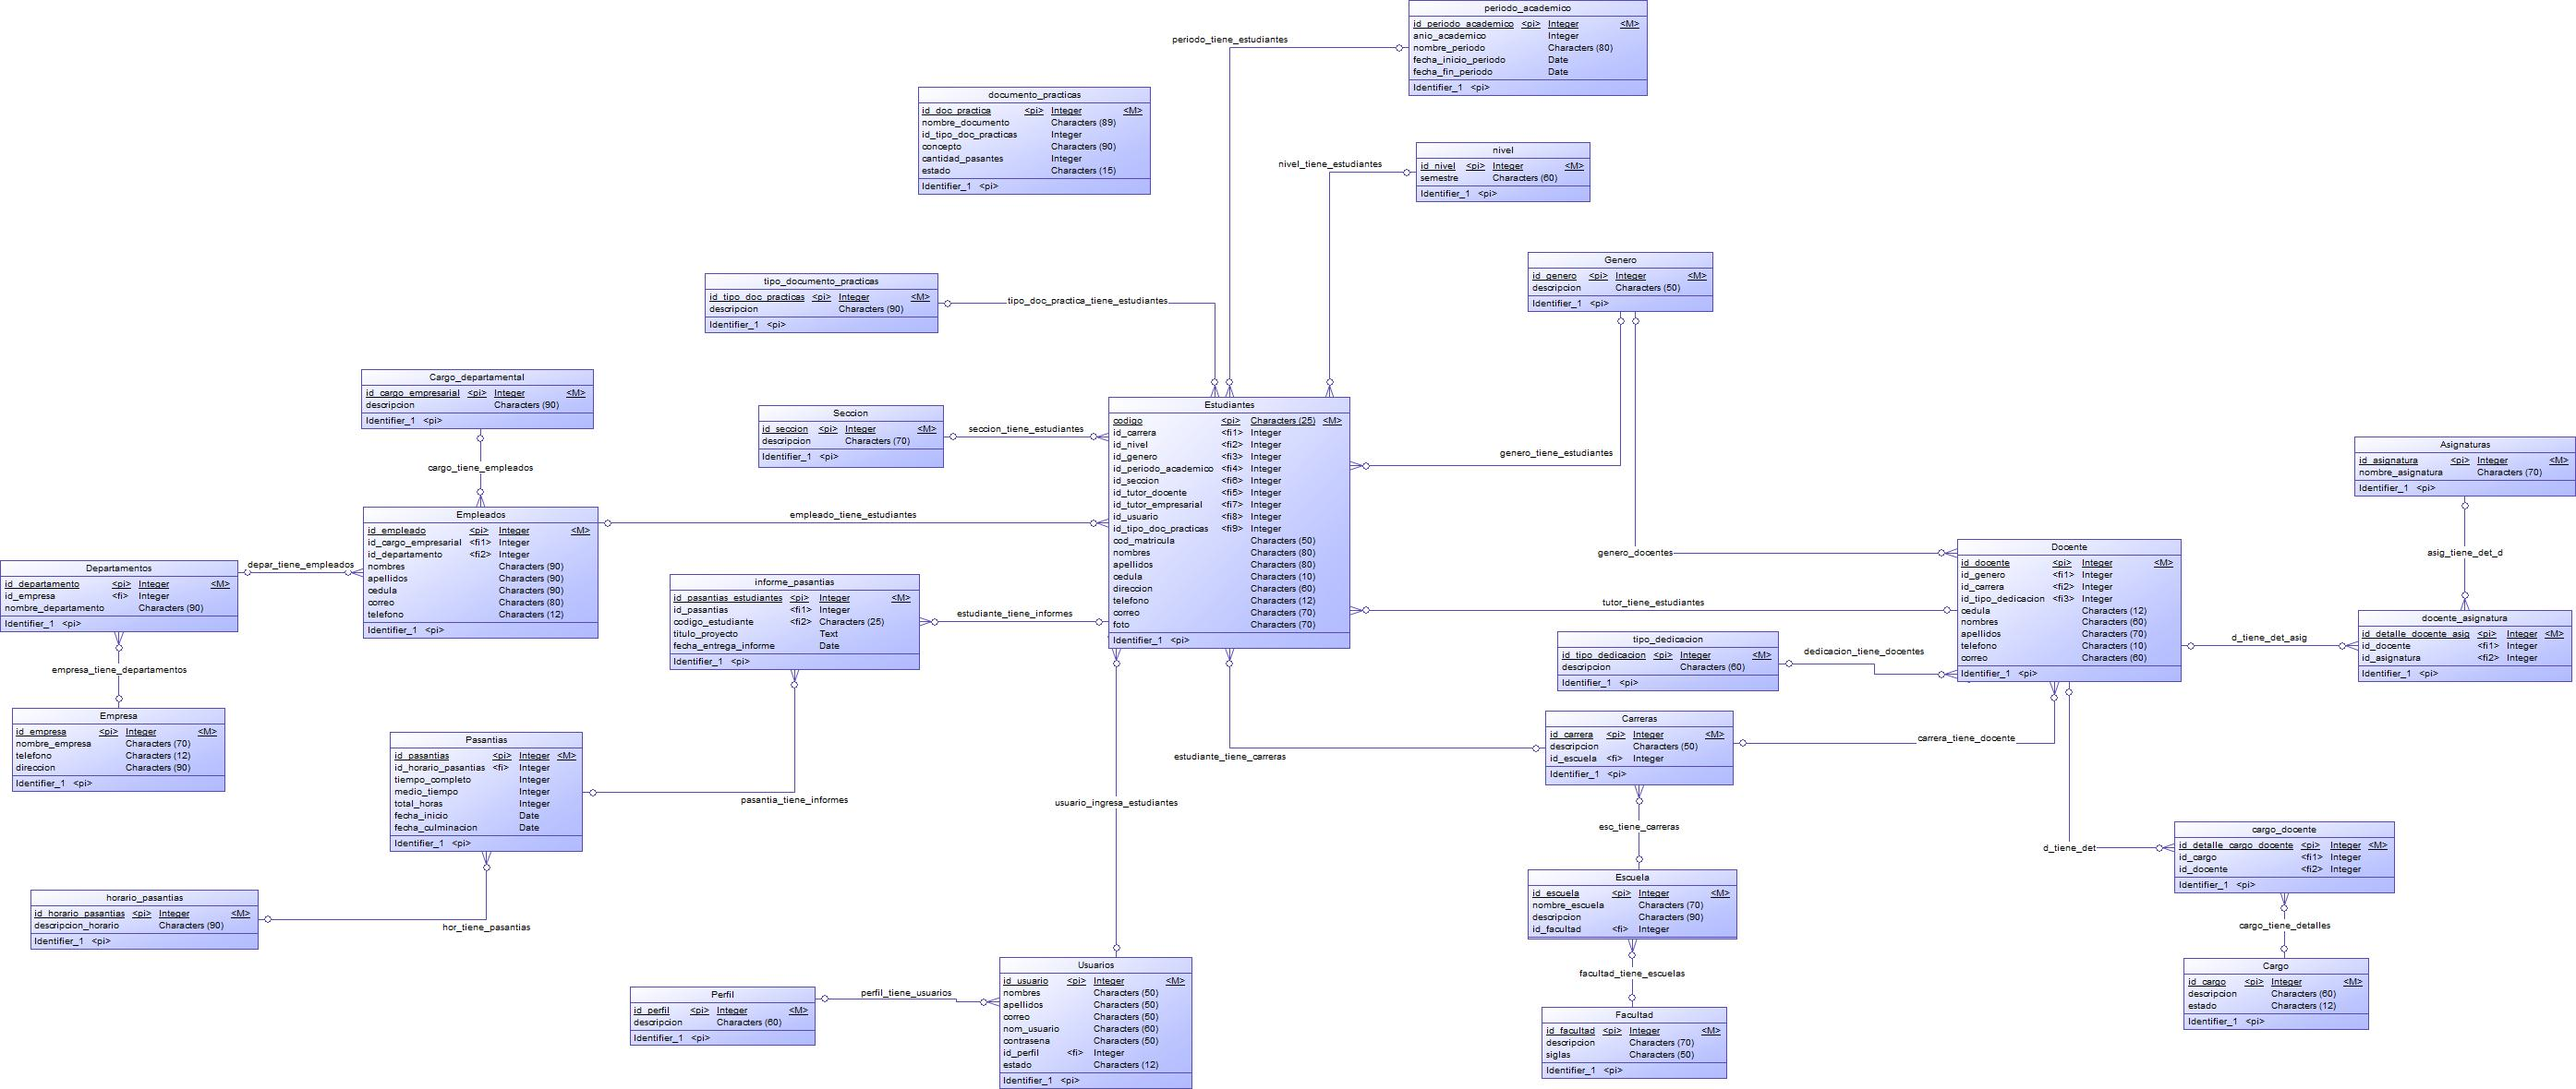
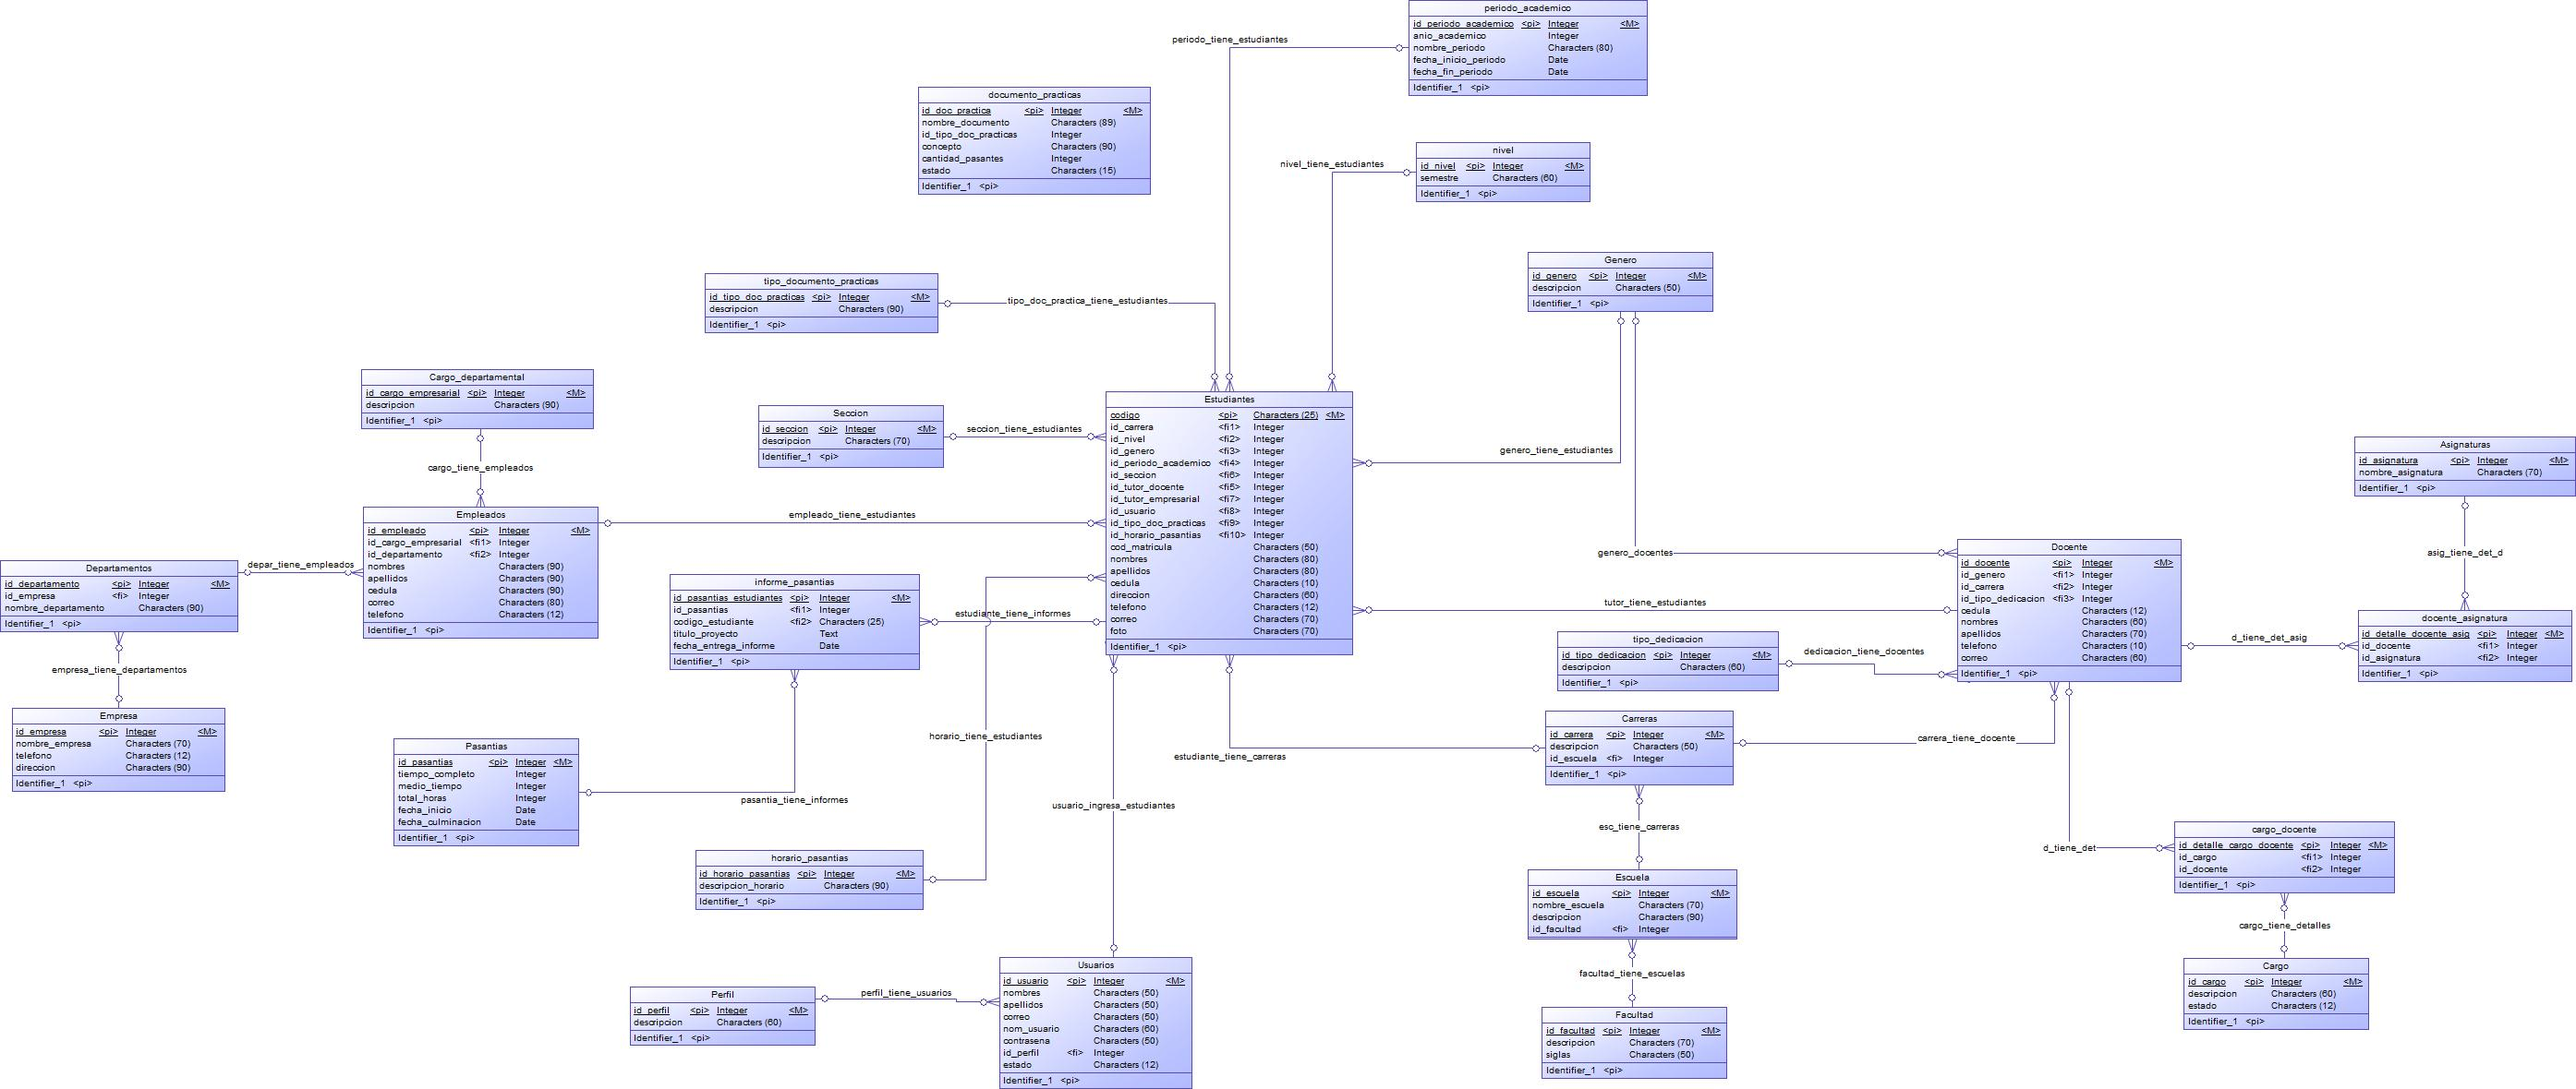
Agrege modelos Nivel, periodo academico, Seccion, y correcciones al modelo entidad relación en los horarios de pasantias

diff --git a/SysVinculacion/src/com/vinculacion/app/views/LoginView.java b/SysVinculacion/src/com/vinculacion/app/views/LoginView.java
@@ -33,6 +33,8 @@ public class LoginView extends javax.swing.JFrame {
         txtContrasena = new javax.swing.JPasswordField();
         jButton1 = new javax.swing.JButton();
         jButton2 = new javax.swing.JButton();
+        comboPerfil = new javax.swing.JComboBox<>();
+        jLabel3 = new javax.swing.JLabel();
 
         setDefaultCloseOperation(javax.swing.WindowConstants.EXIT_ON_CLOSE);
 
@@ -44,6 +46,8 @@ public class LoginView extends javax.swing.JFrame {
 
         jButton2.setText("Cancelar");
 
+        jLabel3.setText("Perfil:");
+
         javax.swing.GroupLayout layout = new javax.swing.GroupLayout(getContentPane());
         getContentPane().setLayout(layout);
         layout.setHorizontalGroup(
@@ -52,17 +56,19 @@ public class LoginView extends javax.swing.JFrame {
                 .addGap(25, 25, 25)
                 .addGroup(layout.createParallelGroup(javax.swing.GroupLayout.Alignment.LEADING, false)
                     .addGroup(layout.createSequentialGroup()
-                        .addGroup(layout.createParallelGroup(javax.swing.GroupLayout.Alignment.TRAILING)
-                            .addComponent(jLabel2)
-                            .addComponent(jLabel1))
-                        .addGap(59, 59, 59)
-                        .addGroup(layout.createParallelGroup(javax.swing.GroupLayout.Alignment.LEADING, false)
-                            .addComponent(txtUsuario)
-                            .addComponent(txtContrasena, javax.swing.GroupLayout.DEFAULT_SIZE, 157, Short.MAX_VALUE)))
-                    .addGroup(layout.createSequentialGroup()
                         .addComponent(jButton1, javax.swing.GroupLayout.PREFERRED_SIZE, 135, javax.swing.GroupLayout.PREFERRED_SIZE)
                         .addPreferredGap(javax.swing.LayoutStyle.ComponentPlacement.UNRELATED)
-                        .addComponent(jButton2, javax.swing.GroupLayout.DEFAULT_SIZE, 131, Short.MAX_VALUE)))
+                        .addComponent(jButton2, javax.swing.GroupLayout.DEFAULT_SIZE, 131, Short.MAX_VALUE))
+                    .addGroup(layout.createSequentialGroup()
+                        .addGroup(layout.createParallelGroup(javax.swing.GroupLayout.Alignment.TRAILING)
+                            .addComponent(jLabel2)
+                            .addComponent(jLabel1)
+                            .addComponent(jLabel3))
+                        .addGap(59, 59, 59)
+                        .addGroup(layout.createParallelGroup(javax.swing.GroupLayout.Alignment.LEADING, false)
+                            .addComponent(comboPerfil, 0, javax.swing.GroupLayout.DEFAULT_SIZE, Short.MAX_VALUE)
+                            .addComponent(txtUsuario)
+                            .addComponent(txtContrasena, javax.swing.GroupLayout.DEFAULT_SIZE, 157, Short.MAX_VALUE))))
                 .addContainerGap(35, Short.MAX_VALUE))
         );
         layout.setVerticalGroup(
@@ -76,11 +82,15 @@ public class LoginView extends javax.swing.JFrame {
                 .addGroup(layout.createParallelGroup(javax.swing.GroupLayout.Alignment.BASELINE)
                     .addComponent(jLabel2)
                     .addComponent(txtContrasena, javax.swing.GroupLayout.PREFERRED_SIZE, javax.swing.GroupLayout.DEFAULT_SIZE, javax.swing.GroupLayout.PREFERRED_SIZE))
-                .addGap(35, 35, 35)
+                .addPreferredGap(javax.swing.LayoutStyle.ComponentPlacement.UNRELATED)
                 .addGroup(layout.createParallelGroup(javax.swing.GroupLayout.Alignment.BASELINE)
-                    .addComponent(jButton1)
-                    .addComponent(jButton2))
-                .addContainerGap(31, Short.MAX_VALUE))
+                    .addComponent(comboPerfil, javax.swing.GroupLayout.PREFERRED_SIZE, javax.swing.GroupLayout.DEFAULT_SIZE, javax.swing.GroupLayout.PREFERRED_SIZE)
+                    .addComponent(jLabel3))
+                .addGap(18, 18, 18)
+                .addGroup(layout.createParallelGroup(javax.swing.GroupLayout.Alignment.LEADING)
+                    .addComponent(jButton1, javax.swing.GroupLayout.DEFAULT_SIZE, 32, Short.MAX_VALUE)
+                    .addComponent(jButton2, javax.swing.GroupLayout.DEFAULT_SIZE, javax.swing.GroupLayout.DEFAULT_SIZE, Short.MAX_VALUE))
+                .addGap(21, 21, 21))
         );
 
         pack();
@@ -122,10 +132,12 @@ public class LoginView extends javax.swing.JFrame {
     }
 
     // Variables declaration - do not modify//GEN-BEGIN:variables
+    public javax.swing.JComboBox<String> comboPerfil;
     public javax.swing.JButton jButton1;
     public javax.swing.JButton jButton2;
     private javax.swing.JLabel jLabel1;
     private javax.swing.JLabel jLabel2;
+    private javax.swing.JLabel jLabel3;
     public javax.swing.JPasswordField txtContrasena;
     public javax.swing.JTextField txtUsuario;
     // End of variables declaration//GEN-END:variables

diff --git a/SysVinculacion/src/com/vinculacion/app/model/PeriodoAcademico.java b/SysVinculacion/src/com/vinculacion/app/model/PeriodoAcademico.java
@@ -1,0 +1,84 @@
+package com.vinculacion.app.model;
+
+import java.io.Serializable;
+import java.util.Date;
+import javax.persistence.Column;
+import javax.persistence.Entity;
+import javax.persistence.GeneratedValue;
+import javax.persistence.GenerationType;
+import javax.persistence.Id;
+import javax.persistence.Table;
+
+@Entity
+@Table(name="PERIODO_ACADEMICO")
+public class PeriodoAcademico implements Serializable{
+    
+    @Id
+    @Column(name="ID_PERIODO_ACADEMICO")
+    @GeneratedValue(strategy=GenerationType.IDENTITY)
+    private int ID_PERIODO_ACADEMICO;
+    
+    @Column(name="ANIO_ACADEMICO")
+    private int ANIO_ACADEMICO;
+
+    @Column(name="NOMBRE_PERIODO")
+    private String NOMBRE_PERIODO;
+
+    @Column(name="FECHA_INICIO_PERIODO")
+    private Date FECHA_INICIO_PERIODO;
+
+    @Column(name="FECHA_FIN_PERIODO")
+    private Date FECHA_FIN_PERIODO;
+
+    public PeriodoAcademico() {
+    }
+
+    public PeriodoAcademico(int ID_PERIODO_ACADEMICO, int ANIO_ACADEMICO, String NOMBRE_PERIODO, Date FECHA_INICIO_PERIODO, Date FECHA_FIN_PERIODO) {
+        this.ID_PERIODO_ACADEMICO = ID_PERIODO_ACADEMICO;
+        this.ANIO_ACADEMICO = ANIO_ACADEMICO;
+        this.NOMBRE_PERIODO = NOMBRE_PERIODO;
+        this.FECHA_INICIO_PERIODO = FECHA_INICIO_PERIODO;
+        this.FECHA_FIN_PERIODO = FECHA_FIN_PERIODO;
+    }
+
+    public int getID_PERIODO_ACADEMICO() {
+        return ID_PERIODO_ACADEMICO;
+    }
+
+    public void setID_PERIODO_ACADEMICO(int ID_PERIODO_ACADEMICO) {
+        this.ID_PERIODO_ACADEMICO = ID_PERIODO_ACADEMICO;
+    }
+
+    public int getANIO_ACADEMICO() {
+        return ANIO_ACADEMICO;
+    }
+
+    public void setANIO_ACADEMICO(int ANIO_ACADEMICO) {
+        this.ANIO_ACADEMICO = ANIO_ACADEMICO;
+    }
+
+    public String getNOMBRE_PERIODO() {
+        return NOMBRE_PERIODO;
+    }
+
+    public void setNOMBRE_PERIODO(String NOMBRE_PERIODO) {
+        this.NOMBRE_PERIODO = NOMBRE_PERIODO;
+    }
+
+    public Date getFECHA_INICIO_PERIODO() {
+        return FECHA_INICIO_PERIODO;
+    }
+
+    public void setFECHA_INICIO_PERIODO(Date FECHA_INICIO_PERIODO) {
+        this.FECHA_INICIO_PERIODO = FECHA_INICIO_PERIODO;
+    }
+
+    public Date getFECHA_FIN_PERIODO() {
+        return FECHA_FIN_PERIODO;
+    }
+
+    public void setFECHA_FIN_PERIODO(Date FECHA_FIN_PERIODO) {
+        this.FECHA_FIN_PERIODO = FECHA_FIN_PERIODO;
+    }
+    
+}

diff --git a/SysVinculacion/src/com/vinculacion/app/model/Seccion.java b/SysVinculacion/src/com/vinculacion/app/model/Seccion.java
@@ -1,0 +1,47 @@
+package com.vinculacion.app.model;
+
+import java.io.Serializable;
+import javax.persistence.Column;
+import javax.persistence.Entity;
+import javax.persistence.GeneratedValue;
+import javax.persistence.GenerationType;
+import javax.persistence.Id;
+import javax.persistence.Table;
+
+@Entity
+@Table(name="SECCION")
+public class Seccion implements Serializable{
+    
+    @Id
+    @Column(name="ID_SECCION")
+    @GeneratedValue(strategy=GenerationType.IDENTITY)
+    private int ID_SECCION;
+    
+    @Column(name="DESCRIPCION")
+    private String DESCRIPCION;
+
+    public Seccion() {
+    }
+
+    public Seccion(int ID_SECCION, String DESCRIPCION) {
+        this.ID_SECCION = ID_SECCION;
+        this.DESCRIPCION = DESCRIPCION;
+    }
+
+    public int getID_SECCION() {
+        return ID_SECCION;
+    }
+
+    public void setID_SECCION(int ID_SECCION) {
+        this.ID_SECCION = ID_SECCION;
+    }
+
+    public String getDESCRIPCION() {
+        return DESCRIPCION;
+    }
+
+    public void setDESCRIPCION(String DESCRIPCION) {
+        this.DESCRIPCION = DESCRIPCION;
+    }
+    
+}

diff --git a/SysVinculacion/src/com/vinculacion/app/model/Nivel.java b/SysVinculacion/src/com/vinculacion/app/model/Nivel.java
@@ -1,0 +1,47 @@
+package com.vinculacion.app.model;
+
+import java.io.Serializable;
+import javax.persistence.Column;
+import javax.persistence.Entity;
+import javax.persistence.GeneratedValue;
+import javax.persistence.GenerationType;
+import javax.persistence.Id;
+import javax.persistence.Table;
+
+@Entity
+@Table(name="NIVEL")
+public class Nivel implements Serializable{
+    
+    @Id
+    @Column(name="ID_NIVEL")
+    @GeneratedValue(strategy=GenerationType.IDENTITY)
+    private int ID_NIVEL;
+    
+    @Column(name="SEMESTRE")
+    private String SEMESTRE;
+
+    public Nivel() {
+    }
+    
+    public Nivel(int ID_NIVEL, String SEMESTRE) {
+        this.ID_NIVEL = ID_NIVEL;
+        this.SEMESTRE = SEMESTRE;
+    }  
+
+    public int getID_NIVEL() {
+        return ID_NIVEL;
+    }
+
+    public void setID_NIVEL(int ID_NIVEL) {
+        this.ID_NIVEL = ID_NIVEL;
+    }
+
+    public String getSEMESTRE() {
+        return SEMESTRE;
+    }
+
+    public void setSEMESTRE(String SEMESTRE) {
+        this.SEMESTRE = SEMESTRE;
+    }
+    
+}
